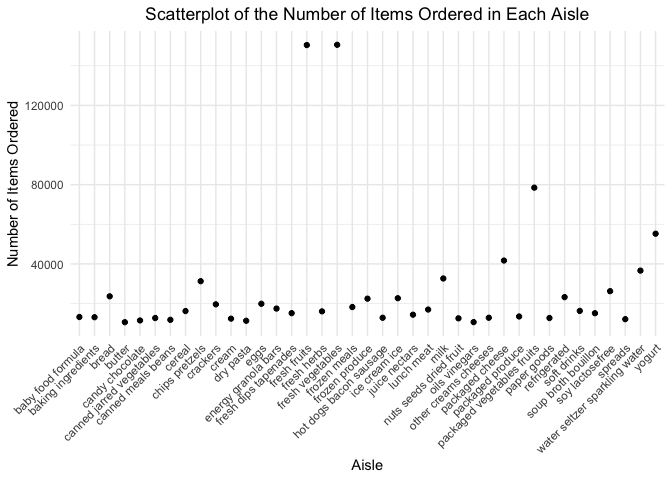
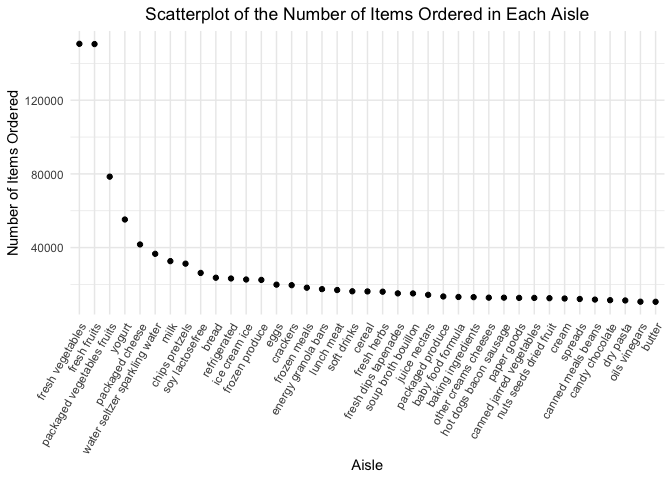
Problem 1 - adjusted code to fix table

diff --git a/p8105_hw3_els2250.md b/p8105_hw3_els2250.md
@@ -5,6 +5,8 @@ Due: 15 October 2022
 
 ``` r
 library(tidyverse)
+library(ggridges)
+library(patchwork)
 ```
 
 ## Problem 1
@@ -15,6 +17,10 @@ we will need to load the dataset:
 ``` r
 library(p8105.datasets)
 data("instacart")
+
+instacart <- 
+  instacart %>% 
+  as_tibble(instacart)
 ```
 
 #### Summary of the Dataset
@@ -53,11 +59,9 @@ product and order information, such as:
 
 ``` r
 instacart %>% 
-  group_by(aisle) %>% 
   count(aisle) %>% 
   arrange(-n)
 ## # A tibble: 134 × 2
-## # Groups:   aisle [134]
 ##    aisle                              n
 ##    <chr>                          <int>
 ##  1 fresh vegetables              150609
@@ -81,7 +85,6 @@ are `fresh vegetables` (n = 150,609), `fresh fruits` (n = 150,473), and
 
 ``` r
 instacart %>% 
-  group_by(aisle) %>% 
   count(aisle) %>% 
   filter(n > 10000) %>% 
   mutate(aisle = fct_reorder(aisle, n, .desc = TRUE)) %>% 
@@ -94,7 +97,7 @@ instacart %>%
   ) +
   theme_minimal() +
   theme(plot.title = element_text(hjust = 0.5),
-    axis.text.x = element_text(angle = 45, vjust = 1, hjust = 1))
+    axis.text.x = element_text(angle = 60, hjust = 1))
 ```
 
 ![](p8105_hw3_els2250_files/figure-gfm/unnamed-chunk-4-1.png)<!-- -->
@@ -108,31 +111,29 @@ instacart %>%
   summarize(
     n_obs = n()
   ) %>% 
-  mutate(
-    product_rank = min_rank(product_name)
-  ) %>% 
+  mutate(product_rank = min_rank(desc(n_obs))) %>% 
   filter(product_rank < 4) %>% 
-  arrange(aisle, product_rank) %>% 
+  arrange(desc(n_obs)) %>% 
   knitr::kable()
 ```
 
-| aisle                      | product_name                                 | n_obs | product_rank |
-|:---------------------------|:---------------------------------------------|------:|-------------:|
-| baking ingredients         | 1 to 1 Gluten Free Baking Flour              |     5 |            1 |
-| baking ingredients         | 1-to-1 Baking Flour, Gluten/Wheat/Dairy Free |     2 |            2 |
-| baking ingredients         | 100% Cacao Unsweetened Chocolate Baking Bar  |     3 |            3 |
-| dog food care              | 174 ; Dentastix&#174 ; Large                 |     7 |            1 |
-| dog food care              | 6" Free Ranger Bully Stix                    |     4 |            2 |
-| dog food care              | Adult Chicken & Rice Dry Dog Food            |     5 |            3 |
-| packaged vegetables fruits | 3 Color Deli Coleslaw                        |    26 |            1 |
-| packaged vegetables fruits | 3 Jumbo Romaine Hearts                       |    33 |            2 |
-| packaged vegetables fruits | 3 lb Clementines                             |    53 |            3 |
+| aisle                      | product_name                                    | n_obs | product_rank |
+|:---------------------------|:------------------------------------------------|------:|-------------:|
+| packaged vegetables fruits | Organic Baby Spinach                            |  3324 |            1 |
+| packaged vegetables fruits | Organic Raspberries                             |  1920 |            2 |
+| packaged vegetables fruits | Organic Blueberries                             |  1692 |            3 |
+| baking ingredients         | Light Brown Sugar                               |   157 |            1 |
+| baking ingredients         | Pure Baking Soda                                |   140 |            2 |
+| baking ingredients         | Organic Vanilla Extract                         |   122 |            3 |
+| dog food care              | Organix Grain Free Chicken & Vegetable Dog Food |    14 |            1 |
+| dog food care              | Organix Chicken & Brown Rice Recipe             |    13 |            2 |
+| dog food care              | Original Dry Dog                                |     9 |            3 |
 
 #### *Q1.4 Make a table showing the mean hour of the day at which Pink Lady Apples and Coffee Ice Cream are ordered on each day of the week; format this table for human readers (i.e. produce a 2 x 7 table).*
 
 ``` r
 instacart %>% 
-  filter(product_name == c("Pink Lady Apples", "Coffee Ice Cream")) %>% 
+  filter(product_name %in% c("Pink Lady Apples", "Coffee Ice Cream")) %>% 
   group_by(product_name, order_dow) %>% 
   summarize(
     mean_hour = mean(order_hour_of_day)
@@ -141,19 +142,18 @@ instacart %>%
     names_from = order_dow,
     values_from = mean_hour
   ) %>% 
-  knitr::kable(digits = 0)
-## Warning in product_name == c("Pink Lady Apples", "Coffee Ice Cream"): longer
-## object length is not a multiple of shorter object length
+  knitr::kable(digits = 2)
 ```
 
-| product_name     |   0 |   1 |   2 |   3 |   4 |   5 |   6 |
-|:-----------------|----:|----:|----:|----:|----:|----:|----:|
-| Coffee Ice Cream |  13 |  15 |  15 |  15 |  15 |  10 |  12 |
-| Pink Lady Apples |  12 |  12 |  12 |  14 |  12 |  14 |  12 |
+| product_name     |     0 |     1 |     2 |     3 |     4 |     5 |     6 |
+|:-----------------|------:|------:|------:|------:|------:|------:|------:|
+| Coffee Ice Cream | 13.77 | 14.32 | 15.38 | 15.32 | 15.22 | 12.26 | 13.83 |
+| Pink Lady Apples | 13.44 | 11.36 | 11.70 | 14.25 | 11.55 | 12.78 | 11.94 |
 
 This table demonstrates the mean hour of the day at which Pink Lady
 Apples and Coffee Ice Cream are ordered on each day of the week. Days of
-the week range from 0 to 6 and the hour of the day is in military time.
+the week range from 0 to 6 and the hour of the day is based on a 24h
+clock.
 
 ## Problem 2
 
